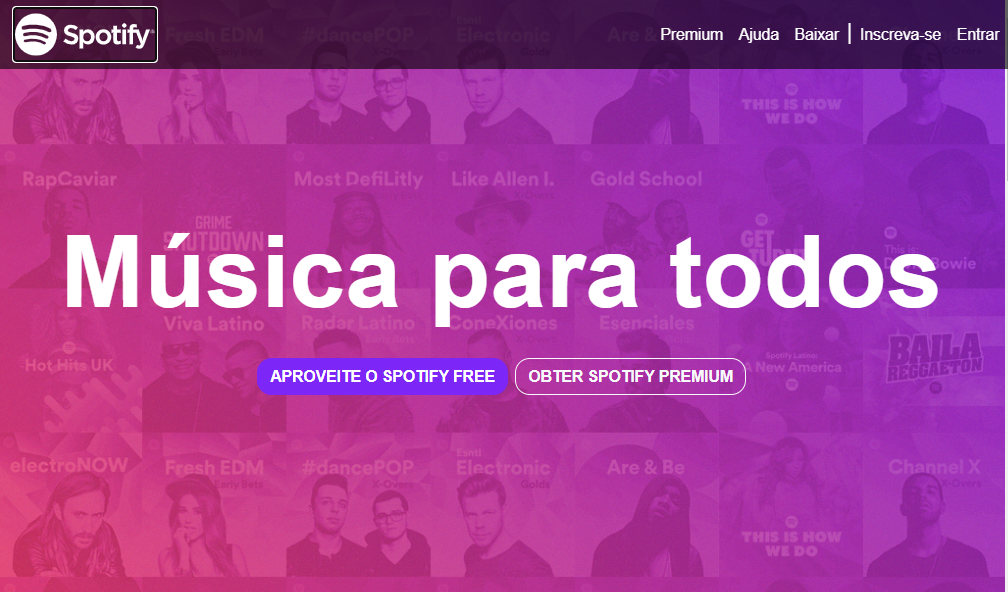
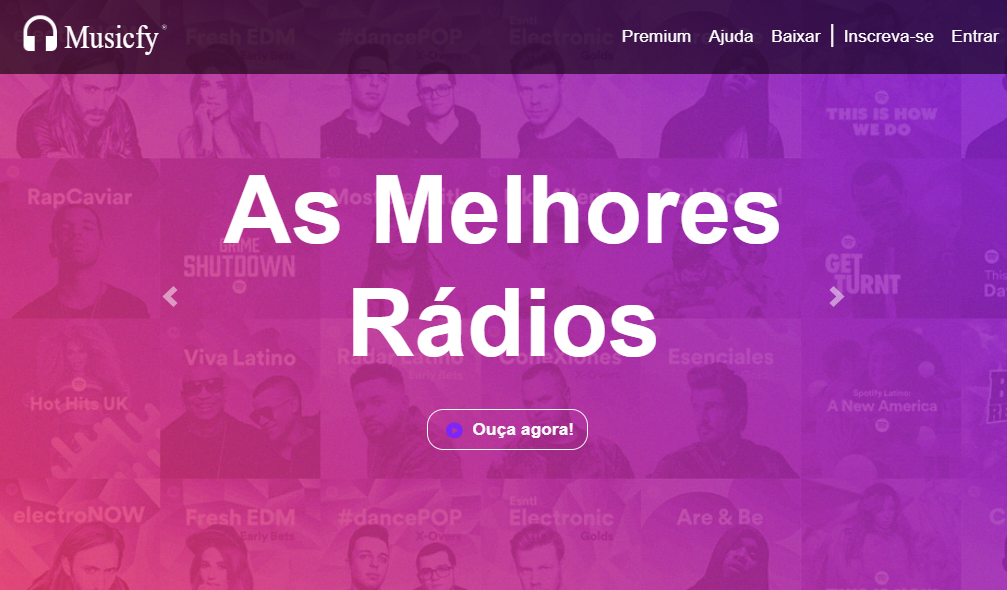
atualizando portfolio

diff --git a/conceitos/portifólio_rafael/index.html b/conceitos/portifólio_rafael/index.html
@@ -1,202 +1,202 @@
-<!DOCTYPE html>
-<html lang="pt-br">
+    <!DOCTYPE html>
+    <html lang="pt-br">
 
-<head>
-    <!-- Meta tags Obrigatórias -->
-    <meta charset="utf-8">
-    <meta name="viewport" content="width=device-width, initial-scale=1, shrink-to-fit=no">
+    <head>
+        <!-- Meta tags Obrigatórias -->
+        <meta charset="utf-8">
+        <meta name="viewport" content="width=device-width, initial-scale=1, shrink-to-fit=no">
 
-    <!-- Bootstrap CSS -->
-    <link rel="stylesheet" href="https://stackpath.bootstrapcdn.com/bootstrap/4.1.3/css/bootstrap.min.css"
-    integrity="sha384-MCw98/SFnGE8fJT3GXwEOngsV7Zt27NXFoaoApmYm81iuXoPkFOJwJ8ERdknLPMO" crossorigin="anonymous">
-    <!-- Stylo -->
-    <link rel="stylesheet" href="css/style.css">
+        <!-- Bootstrap CSS -->
+        <link rel="stylesheet" href="https://stackpath.bootstrapcdn.com/bootstrap/4.1.3/css/bootstrap.min.css"
+        integrity="sha384-MCw98/SFnGE8fJT3GXwEOngsV7Zt27NXFoaoApmYm81iuXoPkFOJwJ8ERdknLPMO" crossorigin="anonymous">
+        <!-- Stylo -->
+        <link rel="stylesheet" href="css/style.css">
 
-    <title>Dev. Rafael Santos</title>
-    <!-- Favicon -->
-    <link rel="shortcut icon" href="img/favicon.ico" type="image/x-icon">
+        <title>Dev. Rafael Santos</title>
+        <!-- Favicon -->
+        <link rel="shortcut icon" href="img/favicon.ico" type="image/x-icon">
 
-    <!-- Fonte Awesome -->
-    <script src="https://kit.fontawesome.com/7e0aec78ae.js" crossorigin="anonymous"></script>
-</head>
-    
-<body>
-    <!-- Topo + Navegação -->
-    <header class="container-full navbar navbar-expand-md navbar-dark">
-        <a href="#" id="logo" class="navbar-brand">
-            Dev. Rafael Santos
-        </a>
-        <button class="navbar-toggler" data-toggle="collapse" data-target="#nav-target">
-            <span class="ml-auto fa-solid fa-bars h2"></span>
-        </button>
-        <nav class="justify-content-end collapse navbar-collapse" id="nav-target">
-            <ul class="navbar-nav">
-                <li class="nav-item">
-                    <a href="#home" class="nav-link active h6"> Home </a>
-                </li>
-                <li class="nav-item">
-                    <a href="#sobre-mim" class="nav-link h6"> Sobre </a>
-                </li>
-                <li class="nav-item">
-                    <a href="#skills" class="nav-link h6"> Skills </a>
-                </li>
-                <li class="nav-item">
-                    <a href="#portfolio" class="nav-link h6"> Portifólio </a>
-                </li>
-                <li class="nav-item">
-                    <a href="#footer" class="btn btn-outline-light"> Contato </a>
-                </li>
-            </ul>
-        </nav>
-    </header>
-    <!-- Parte Principal -->
-    <main class="container-full text-light mt-5 p-3 mb-5" id="home">
-        <article class="row align-items-center" style="height: 100%;">
-            <section class="col-md-8 mt-3">  
-                <h3 id="h3_ola" class="text-center"> Olá 
-                    &#x1F44B;! Sou Rafael Santos</h3>
-                <h1 id="h1_apresentação" class="display-3 text-center ">Front-end <br> Developer</h1>
-                <div class="text-center mt-4 row justify-content-center">
-                    <div class="mb-3" >
-                        <a target="_blank" href="https://api.whatsapp.com/send?phone=5571988615918" class="btn  btn-outline-primary">
-                            <span class="mr-1 fa-brands fa-whatsapp fa-fade"></span>
-                            Contate-me
-                        </a>
-                    </div>
-                    <div class="ml-2 mb-3">
-                        <a target="_blank" href="docs/Currículo_Rafael.pdf" class="btn  btn-outline-primary" download>
-                            <span class=" mr-1 fa-solid fa-download fa-fade"></span> Meu Currículo
-                        </a>
-                    </div>
-                </div>
-            </section>
-            <section class="col-md-3 mt-3 d-none d-md-block ">
-                <img src="img/foto-rafael.jpeg" style="width: 250px; height: 250px; border-radius: 50%; display: block;" alt="">
-            </section>
-        </article>
-    </main>
-    <!-- Container Sobre Mim -->
-    <section class=" row ">
-        <article class=" container subtitle" id="sobre-mim">
-            <h3 >
-                <span class="fa-solid fa-plus fa-fade"></span>
-                Sobre mim
-            </h3>
-
-            <p class="mt-4 px-3">Tenho 24 anos sou um apaixonado por tecnológia e a alguns meses venho estudando e fazendo projetos a fim de conseguir minha primeira oportunidade na área. Para tal tenho aplicado meu tempo em conhecer mais sobre HTML5, CSS3, JavaScrip, Bootstrap, Git e Github além de estar cursando o 2º semestre de Análise e Desenvolvimento de Sistemas na universidade Anhanguera.</p>
-        </article>
-    </section>
-    <!-- Container Skills -->
-    <section class="row">
-        <article class="container subtitle" id="skills">
-            <h3 >
-                <span class="fa-solid fa-list fa-fade"></span>
-                Skills
-            </h3>
-
-            <div class="text-center  mt-5  row  align-self-center  justify-content-around" id="skills-list">
-                <div class=" col-xm-2 text-center ">
-                    <span class=" fa-brands fa-html5 fa-2xl"></span>
-                    <p class=" mt-2 p-lista">HTML 5</p>
-                </div >
-                <div class=" col-xm-2 text-center ">
-                    <span class=" fa-brands fa-css3 fa-2xl "></span>
-                    <p class=" mt-2 p-lista">CSS-3</p>
-                </div>
-                <div class=" col-xm-2 text-center  ">
-                    <span class=" fa-brands fa-js fa-2xl"></span>
-                    <p class=" mt-2 p-lista">JavaScrip</p>
-                </div>
-                <div class=" col-xm-2 text-center  ">    
-                    <span class="fa-brands fa-bootstrap fa-2xl"></span>
-                    <p class=" mt-2 p-lista">Bootstrap</p>
-                </div>
-                <div class=" col-xm-2 text-center  ">
-                    <span class="fa-brands  fa-git fa-2xl"></span>
-                    <p class=" mt-2 p-lista">Git</p>
-                </div>
-                <div class="col-xm-2 text-center p1 ">
-                    <span class=" fa-brands  fa-github fa-2xl"></span>
-                    <p class="mt-2 p-lista">GitHub</p>
-                </div>
-            </div>
-        </article>
-    </section>
-    <!-- Container Portfolio -->
-    <section class=" mb-5 row" id="portfolio">
-        <article class="mt-5 container subtitle align-items-center" id="skills">
-            <h3 >
-                <span class="fa-solid fa-diagram-project fa-fade"></span>
-                Portifólio
-            </h3>
-            <div class="card"> 
-                <div class="card-body p-2 row">
-                    <div class="col-md-6">
-                        <img class="card-img-top align-self-center" src="img/site-finans.png" alt="site_finans" style="width: 100%;">
-                    </div>
-                    <div class=" align-self-center text-center col-md-6">
-                        <h2 id="h2_portfolio" class="text-center card-title">Site Finans</h2>
-                        <p class="text-justify">Site de gestão financeira fictício feito comprovar meus conhecimentos em Bootstrap.</p>
-                        <a target="_blank" href="https://github.com/DevRaf4elSantos/site-finans" class="btn btn-outline-primary">
-                            <span class=" fa-brands  fa-github fa-2xl"></span>
-                        </a>
-                        <a target="_blank" href="https://devraf4elsantos.github.io/site-finans/" class="btn btn-outline-primary">
-                            <span class="fa-solid fa-eye fa-2xl"></span>
-                        </a>
-                    </div>
-                </div>
-            </div>
-            <div class="card mt-3"> 
-                <div class="card-body p-2 row">
-                    <div class="col-md-6">
-                        <img class="card-img-top align-self-center" src="img/capa_clone_spotify.png"site_finans" style="width: 100%;">
-                    </div>
-                    <div class=" align-self-center text-center col-md-6">
-                        <h2 id="h2_portfolio" class="text-center card-title">Clone Spotify</h2>
-                        <p class="text-justify">Site Clone da Spotify que é o serviço de streaming de música mais popular e usado do mundo para tal usei conhecimentos em HTML5/CSS3/Bootstrap.</p>
-                        <a target="_blank" href="https://github.com/DevRaf4elSantos/clone_spotify" class="btn btn-outline-primary">
-                            <span class=" fa-brands  fa-github fa-2xl"></span>
-                        </a>
-                        <a target="_blank" href="https://devraf4elsantos.github.io/site-finans/" class="btn btn-outline-primary">
-                            <span class="fa-solid fa-eye fa-2xl"></span>
-                        </a>
-                    </div>
-                </div>
-            </div>
-        </article>
-    </section>
-    <!-- Rodapé do site -->
-    <footer class="row p-2 container-full text-center justify-content-around align-items-center" id="footer">
+        <!-- Fonte Awesome -->
+        <script src="https://kit.fontawesome.com/7e0aec78ae.js" crossorigin="anonymous"></script>
+    </head>
         
-        <a class="btn btn-outline-success" target="_blank" href="https://api.whatsapp.com/send?phone=5571988615918">
-            <span class=" fa-brands fa-whatsapp fa-2xl" style="color: #fff;">
-            </span> 
-        </a>
-        <a class="btn btn-outline-primary"  target="_blank" href="https://www.linkedin.com/in/dev-rafael-santos/">
-            <span class=" fa-brands fa-linkedin fa-2xl" style="color: #fff;"></span> 
-        </a>
-        <a class="btn btn-outline-dark"  target="_blank" href="https://github.com/DevRaf4elSantos">
-            <span class=" fa-brands fa-github fa-2xl" style="color: #fff;"></span> 
-        </a>
-        <a class="btn btn-outline-danger" target="_blank" href="mailto:contatodevrafaelsantos@gmail.com">
-            <span class="fa-solid fa-envelope fa-2xl" style="color: #fff;">
-            </span> 
-        </a>
-    </footer>
+    <body>
+        <!-- Topo + Navegação -->
+        <header class="container-full navbar navbar-expand-md navbar-dark">
+            <a href="#" id="logo" class="navbar-brand">
+                Dev. Rafael Santos
+            </a>
+            <button class="navbar-toggler" data-toggle="collapse" data-target="#nav-target">
+                <span class="ml-auto fa-solid fa-bars h2"></span>
+            </button>
+            <nav class="justify-content-end collapse navbar-collapse" id="nav-target">
+                <ul class="navbar-nav">
+                    <li class="nav-item">
+                        <a href="#home" class="nav-link active h6"> Home </a>
+                    </li>
+                    <li class="nav-item">
+                        <a href="#sobre-mim" class="nav-link h6"> Sobre </a>
+                    </li>
+                    <li class="nav-item">
+                        <a href="#skills" class="nav-link h6"> Skills </a>
+                    </li>
+                    <li class="nav-item">
+                        <a href="#portfolio" class="nav-link h6"> Portifólio </a>
+                    </li>
+                    <li class="nav-item">
+                        <a href="#footer" class="btn btn-outline-light"> Contato </a>
+                    </li>
+                </ul>
+            </nav>
+        </header>
+        <!-- Parte Principal -->
+        <main class="container-full text-light mt-5 p-3 mb-5" id="home">
+            <article class="row align-items-center" style="height: 100%;">
+                <section class="col-md-8 mt-3">  
+                    <h3 id="h3_ola" class="text-center"> Olá 
+                        &#x1F44B;! Sou Rafael Santos</h3>
+                    <h1 id="h1_apresentação" class="display-3 text-center ">Front-end <br> Developer</h1>
+                    <div class="text-center mt-4 row justify-content-center">
+                        <div class="mb-3" >
+                            <a target="_blank" href="https://api.whatsapp.com/send?phone=5571988615918" class="btn  btn-outline-primary">
+                                <span class="mr-1 fa-brands fa-whatsapp fa-fade"></span>
+                                Contate-me
+                            </a>
+                        </div>
+                        <div class="ml-2 mb-3">
+                            <a target="_blank" href="docs/Currículo_Rafael.pdf" class="btn  btn-outline-primary" download>
+                                <span class=" mr-1 fa-solid fa-download fa-fade"></span> Meu Currículo
+                            </a>
+                        </div>
+                    </div>
+                </section>
+                <section class="col-md-3 mt-3 d-none d-md-block ">
+                    <img src="img/foto-rafael.jpeg" style="width: 250px; height: 250px; border-radius: 50%; display: block;" alt="">
+                </section>
+            </article>
+        </main>
+        <!-- Container Sobre Mim -->
+        <section class=" row ">
+            <article class=" container subtitle" id="sobre-mim">
+                <h3 >
+                    <span class="fa-solid fa-plus fa-fade"></span>
+                    Sobre mim
+                </h3>
 
-    
+                <p class="mt-4 px-3">Tenho 24 anos sou um apaixonado por tecnológia e a alguns meses venho estudando e fazendo projetos a fim de conseguir minha primeira oportunidade na área. Para tal tenho aplicado meu tempo em conhecer mais sobre HTML5, CSS3, JavaScrip, Bootstrap, Git e Github além de estar cursando o 2º semestre de Análise e Desenvolvimento de Sistemas na universidade Anhanguera.</p>
+            </article>
+        </section>
+        <!-- Container Skills -->
+        <section class="row">
+            <article class="container subtitle" id="skills">
+                <h3 >
+                    <span class="fa-solid fa-list fa-fade"></span>
+                    Skills
+                </h3>
 
-    <!-- JavaScript (Opcional) -->
-    <!-- jQuery primeiro, depois Popper.js, depois Bootstrap JS -->
-    <script src="https://code.jquery.com/jquery-3.3.1.slim.min.js"
-        integrity="sha384-q8i/X+965DzO0rT7abK41JStQIAqVgRVzpbzo5smXKp4YfRvH+8abtTE1Pi6jizo"
-        crossorigin="anonymous"></script>
-    <script src="https://cdnjs.cloudflare.com/ajax/libs/popper.js/1.14.3/umd/popper.min.js"
-        integrity="sha384-ZMP7rVo3mIykV+2+9J3UJ46jBk0WLaUAdn689aCwoqbBJiSnjAK/l8WvCWPIPm49"
-        crossorigin="anonymous"></script>
-    <script src="https://stackpath.bootstrapcdn.com/bootstrap/4.1.3/js/bootstrap.min.js"
-        integrity="sha384-ChfqqxuZUCnJSK3+MXmPNIyE6ZbWh2IMqE241rYiqJxyMiZ6OW/JmZQ5stwEULTy"
-        crossorigin="anonymous"></script>
-</body>
+                <div class="text-center  mt-5  row  align-self-center  justify-content-around" id="skills-list">
+                    <div class=" col-xm-2 text-center ">
+                        <span class=" fa-brands fa-html5 fa-2xl"></span>
+                        <p class=" mt-2 p-lista">HTML 5</p>
+                    </div >
+                    <div class=" col-xm-2 text-center ">
+                        <span class=" fa-brands fa-css3 fa-2xl "></span>
+                        <p class=" mt-2 p-lista">CSS-3</p>
+                    </div>
+                    <div class=" col-xm-2 text-center  ">
+                        <span class=" fa-brands fa-js fa-2xl"></span>
+                        <p class=" mt-2 p-lista">JavaScrip</p>
+                    </div>
+                    <div class=" col-xm-2 text-center  ">    
+                        <span class="fa-brands fa-bootstrap fa-2xl"></span>
+                        <p class=" mt-2 p-lista">Bootstrap</p>
+                    </div>
+                    <div class=" col-xm-2 text-center  ">
+                        <span class="fa-brands  fa-git fa-2xl"></span>
+                        <p class=" mt-2 p-lista">Git</p>
+                    </div>
+                    <div class="col-xm-2 text-center p1 ">
+                        <span class=" fa-brands  fa-github fa-2xl"></span>
+                        <p class="mt-2 p-lista">GitHub</p>
+                    </div>
+                </div>
+            </article>
+        </section>
+        <!-- Container Portfolio -->
+        <section class=" mb-5 row" id="portfolio">
+            <article class="mt-5 container subtitle align-items-center" id="skills">
+                <h3 >
+                    <span class="fa-solid fa-diagram-project fa-fade"></span>
+                    Portifólio
+                </h3>
+                <div class="card"> 
+                    <div class="card-body p-2 row">
+                        <div class="col-md-6">
+                            <img class="card-img-top align-self-center" src="img/site-finans.png" alt="site_finans" style="width: 100%;">
+                        </div>
+                        <div class=" align-self-center text-center col-md-6">
+                            <h2 id="h2_portfolio" class="text-center card-title">Site Finans</h2>
+                            <p class="text-justify">Site de gestão financeira fictício feito comprovar meus conhecimentos em Bootstrap.</p>
+                            <a target="_blank" href="https://github.com/DevRaf4elSantos/site-finans" class="btn btn-outline-primary">
+                                <span class=" fa-brands  fa-github fa-2xl"></span>
+                            </a>
+                            <a target="_blank" href="https://devraf4elsantos.github.io/site-finans/" class="btn btn-outline-primary">
+                                <span class="fa-solid fa-eye fa-2xl"></span>
+                            </a>
+                        </div>
+                    </div>
+                </div>
+                <div class="card mt-3"> 
+                    <div class="card-body p-2 row">
+                        <div class="col-md-6">
+                            <img class="card-img-top align-self-center" src="img/capa_clone_spotify.png"site_finans" style="width: 100%;">
+                        </div>
+                        <div class=" align-self-center text-center col-md-6">
+                            <h2 id="h2_portfolio" class="text-center card-title">Clone Spotify</h2>
+                            <p class="text-justify">Site Clone da Spotify que é o serviço de streaming de música mais popular e usado do mundo para tal usei conhecimentos em HTML5/CSS3/Bootstrap.</p>
+                            <a target="_blank" href="https://github.com/DevRaf4elSantos/musicfy" class="btn btn-outline-primary">
+                                <span class=" fa-brands  fa-github fa-2xl"></span>
+                            </a>
+                            <a target="_blank" href="https://devraf4elsantos.github.io/musicfy/" class="btn btn-outline-primary">
+                                <span class="fa-solid fa-eye fa-2xl"></span>
+                            </a>
+                        </div>
+                    </div>
+                </div>
+            </article>
+        </section>
+        <!-- Rodapé do site -->
+        <footer class="row p-2 container-full text-center justify-content-around align-items-center" id="footer">
+            
+            <a class="btn btn-outline-success" target="_blank" href="https://api.whatsapp.com/send?phone=5571988615918">
+                <span class=" fa-brands fa-whatsapp fa-2xl" style="color: #fff;">
+                </span> 
+            </a>
+            <a class="btn btn-outline-primary"  target="_blank" href="https://www.linkedin.com/in/dev-rafael-santos/">
+                <span class=" fa-brands fa-linkedin fa-2xl" style="color: #fff;"></span> 
+            </a>
+            <a class="btn btn-outline-dark"  target="_blank" href="https://github.com/DevRaf4elSantos">
+                <span class=" fa-brands fa-github fa-2xl" style="color: #fff;"></span> 
+            </a>
+            <a class="btn btn-outline-danger" target="_blank" href="mailto:contatodevrafaelsantos@gmail.com">
+                <span class="fa-solid fa-envelope fa-2xl" style="color: #fff;">
+                </span> 
+            </a>
+        </footer>
 
-</html>
+        
+
+        <!-- JavaScript (Opcional) -->
+        <!-- jQuery primeiro, depois Popper.js, depois Bootstrap JS -->
+        <script src="https://code.jquery.com/jquery-3.3.1.slim.min.js"
+            integrity="sha384-q8i/X+965DzO0rT7abK41JStQIAqVgRVzpbzo5smXKp4YfRvH+8abtTE1Pi6jizo"
+            crossorigin="anonymous"></script>
+        <script src="https://cdnjs.cloudflare.com/ajax/libs/popper.js/1.14.3/umd/popper.min.js"
+            integrity="sha384-ZMP7rVo3mIykV+2+9J3UJ46jBk0WLaUAdn689aCwoqbBJiSnjAK/l8WvCWPIPm49"
+            crossorigin="anonymous"></script>
+        <script src="https://stackpath.bootstrapcdn.com/bootstrap/4.1.3/js/bootstrap.min.js"
+            integrity="sha384-ChfqqxuZUCnJSK3+MXmPNIyE6ZbWh2IMqE241rYiqJxyMiZ6OW/JmZQ5stwEULTy"
+            crossorigin="anonymous"></script>
+    </body>
+
+    </html>
